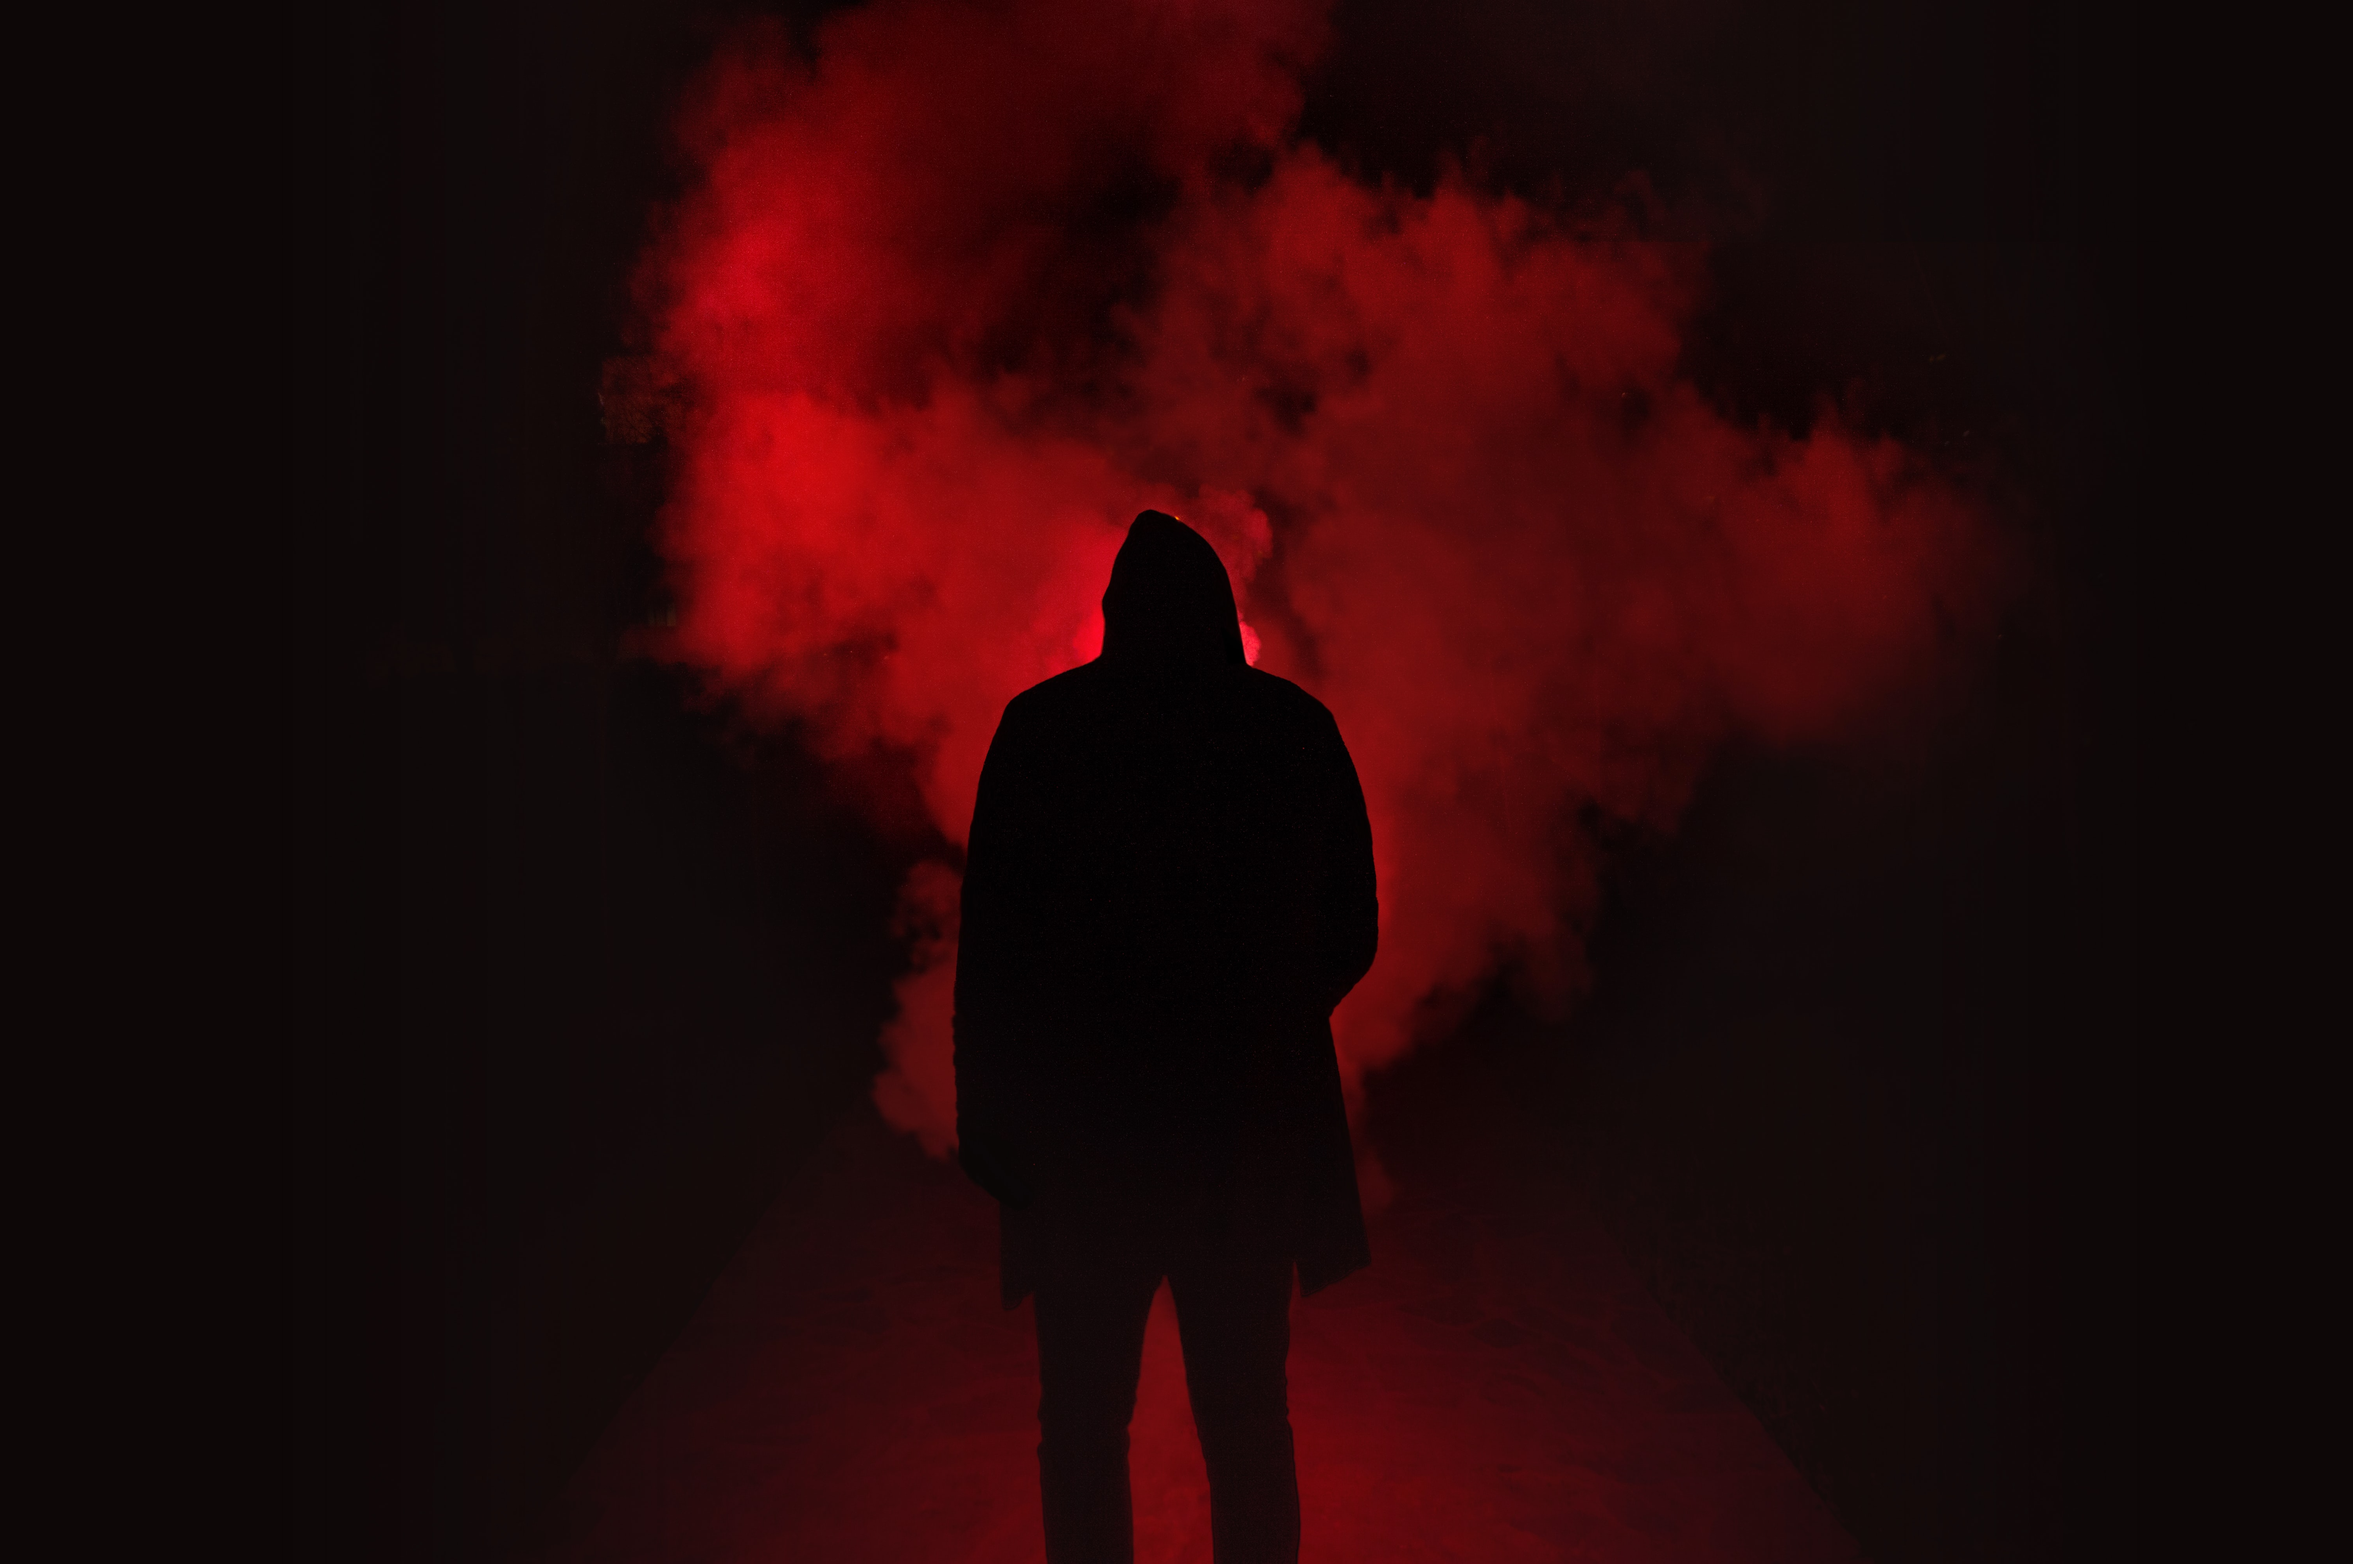
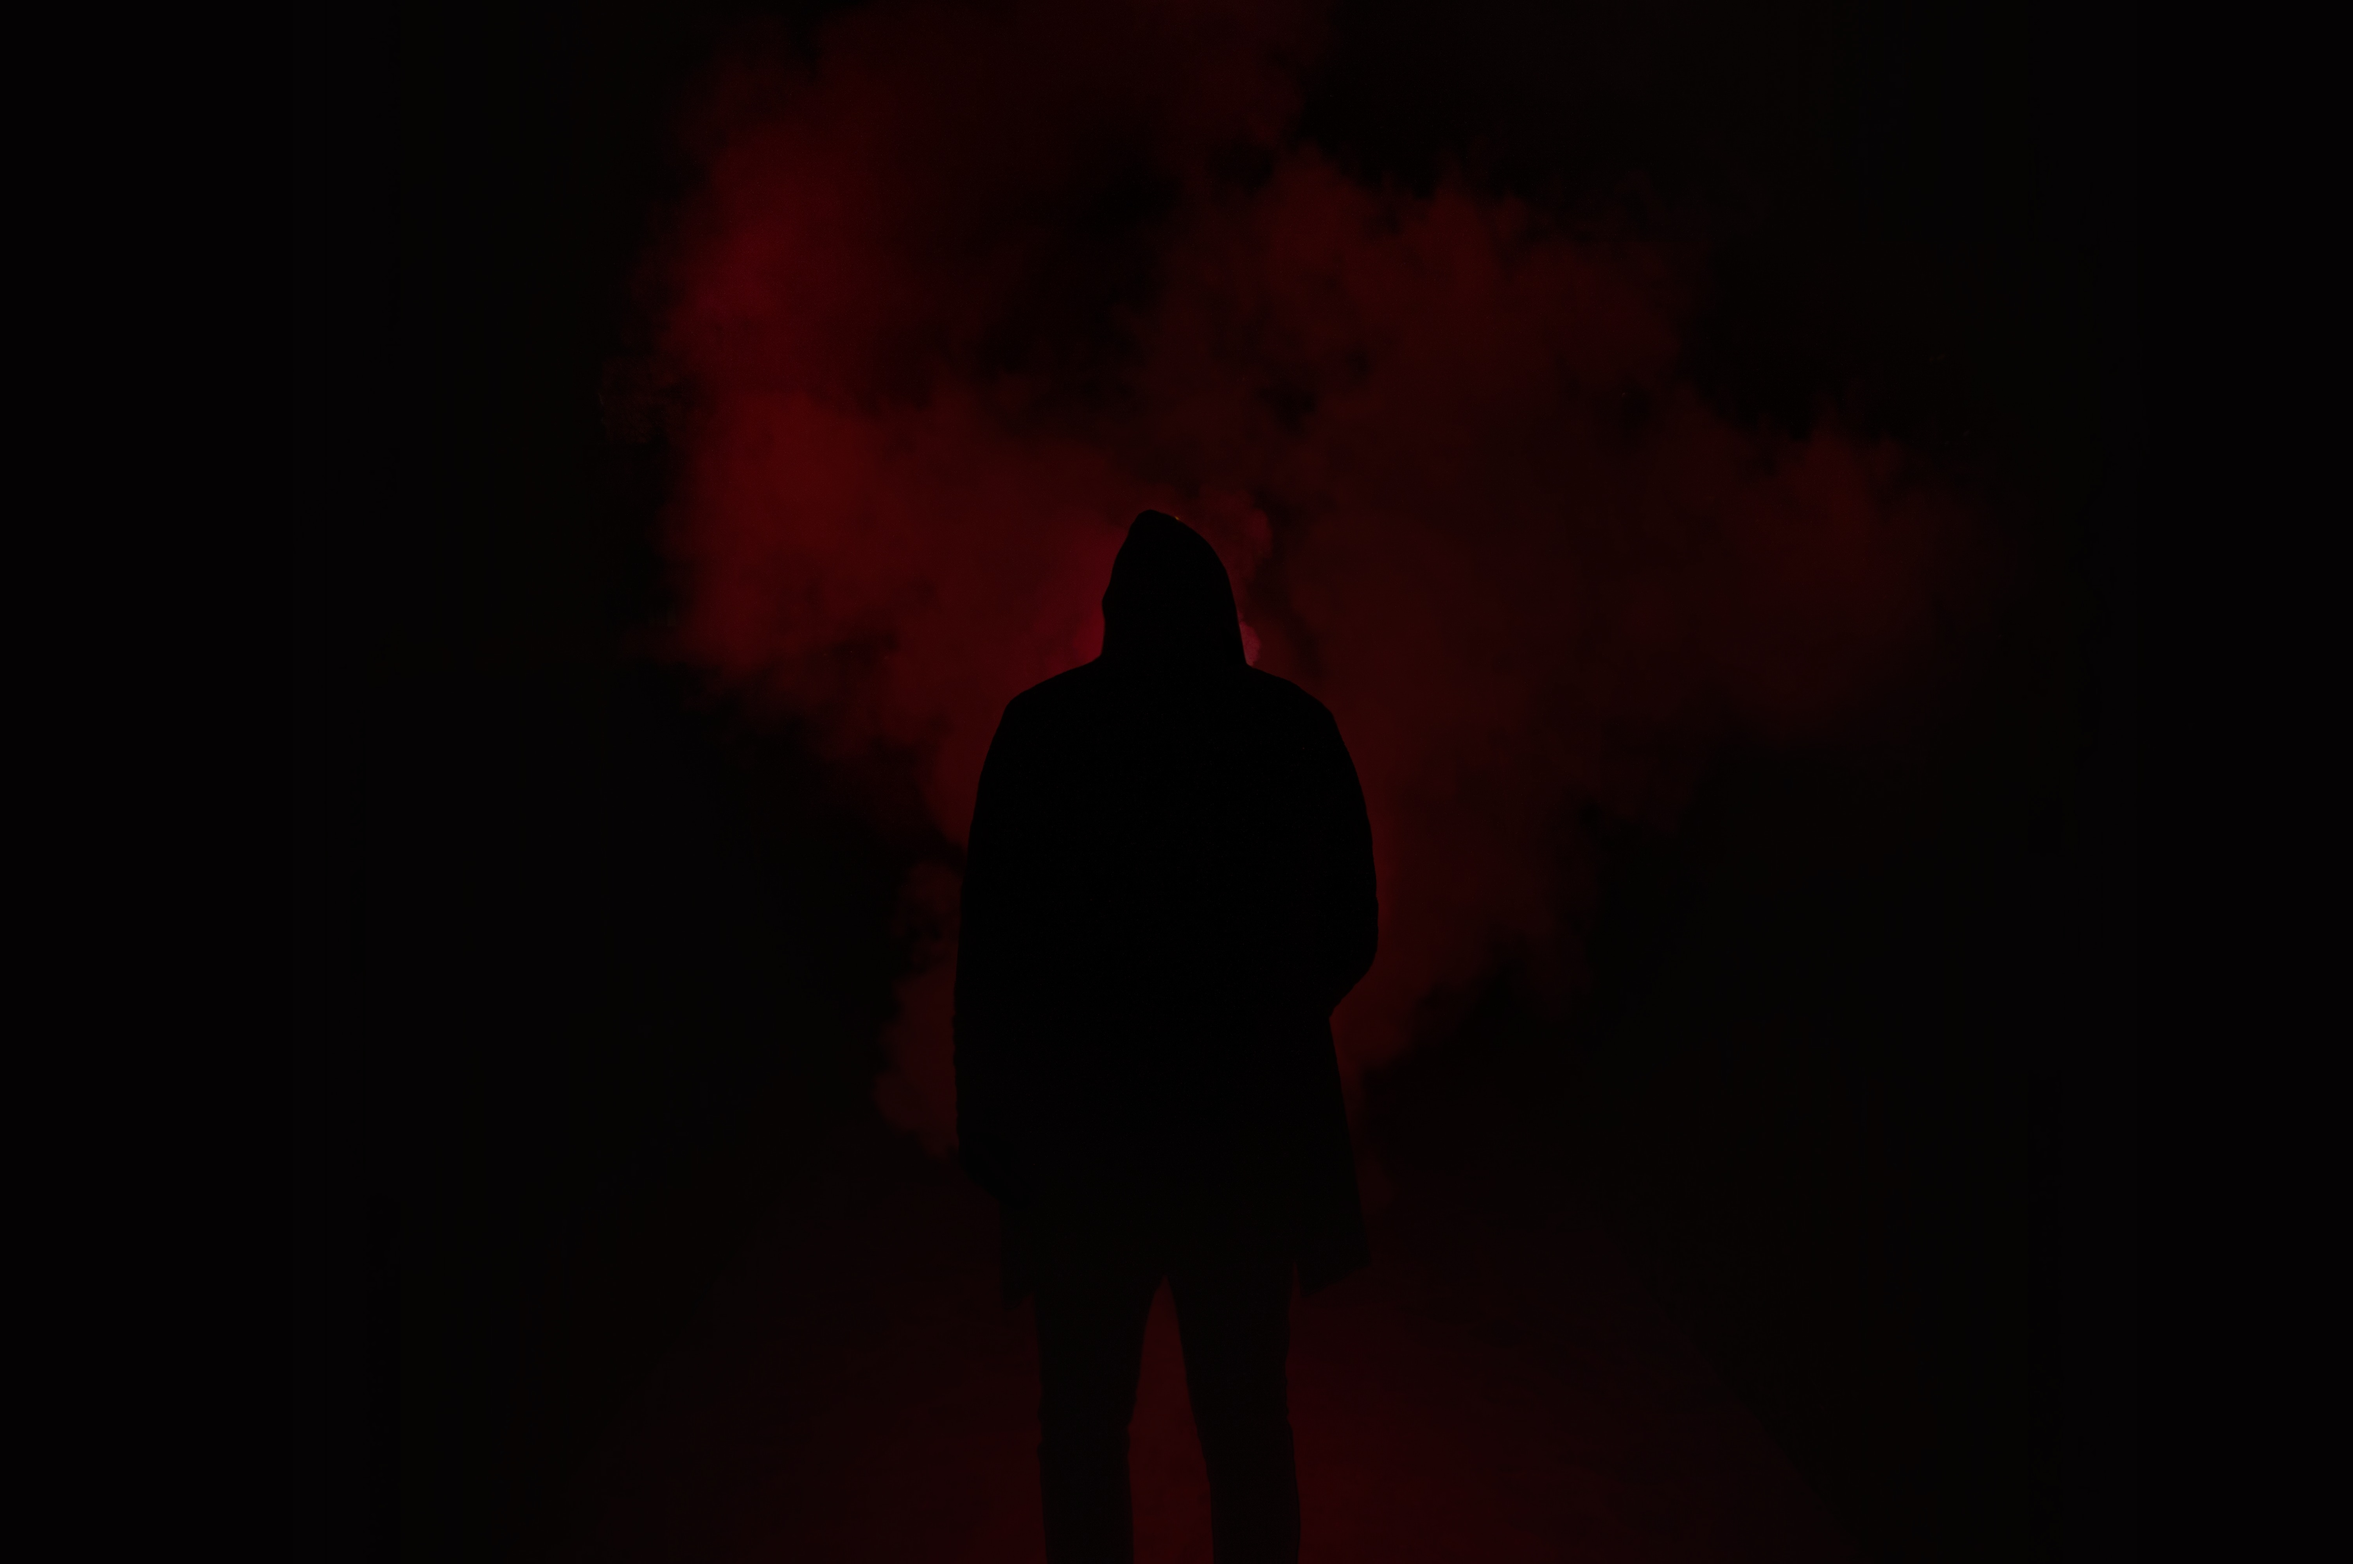
add start screen background

Changed region(s): [[0.25, 0.0, 0.875, 1.0]]

diff --git a/style.css b/style.css
@@ -20,6 +20,12 @@ body {
   background: black;
 }
 
+#start {
+  background-image: url('images/background.jpg');
+  background-position: center;
+  background-size: contain;
+}
+
 #start h1 {
   margin: 0;
   font-size: 200px;
@@ -45,6 +51,7 @@ h2 {
 }
 
 button {
+  border: 2px solid red;
   margin: 40px;
   font-family: 'bloodlust expanded';
   font-size: 50px;

diff --git a/index.html b/index.html
@@ -11,6 +11,7 @@
   </head>
   <body>
     <div class="screen" id="start">
+      <!-- <img src="images/background.jpg" /> -->
       <h1>K I L L K E Y</h1>
       <div id="maps">
         <h2>Maps</h2>
